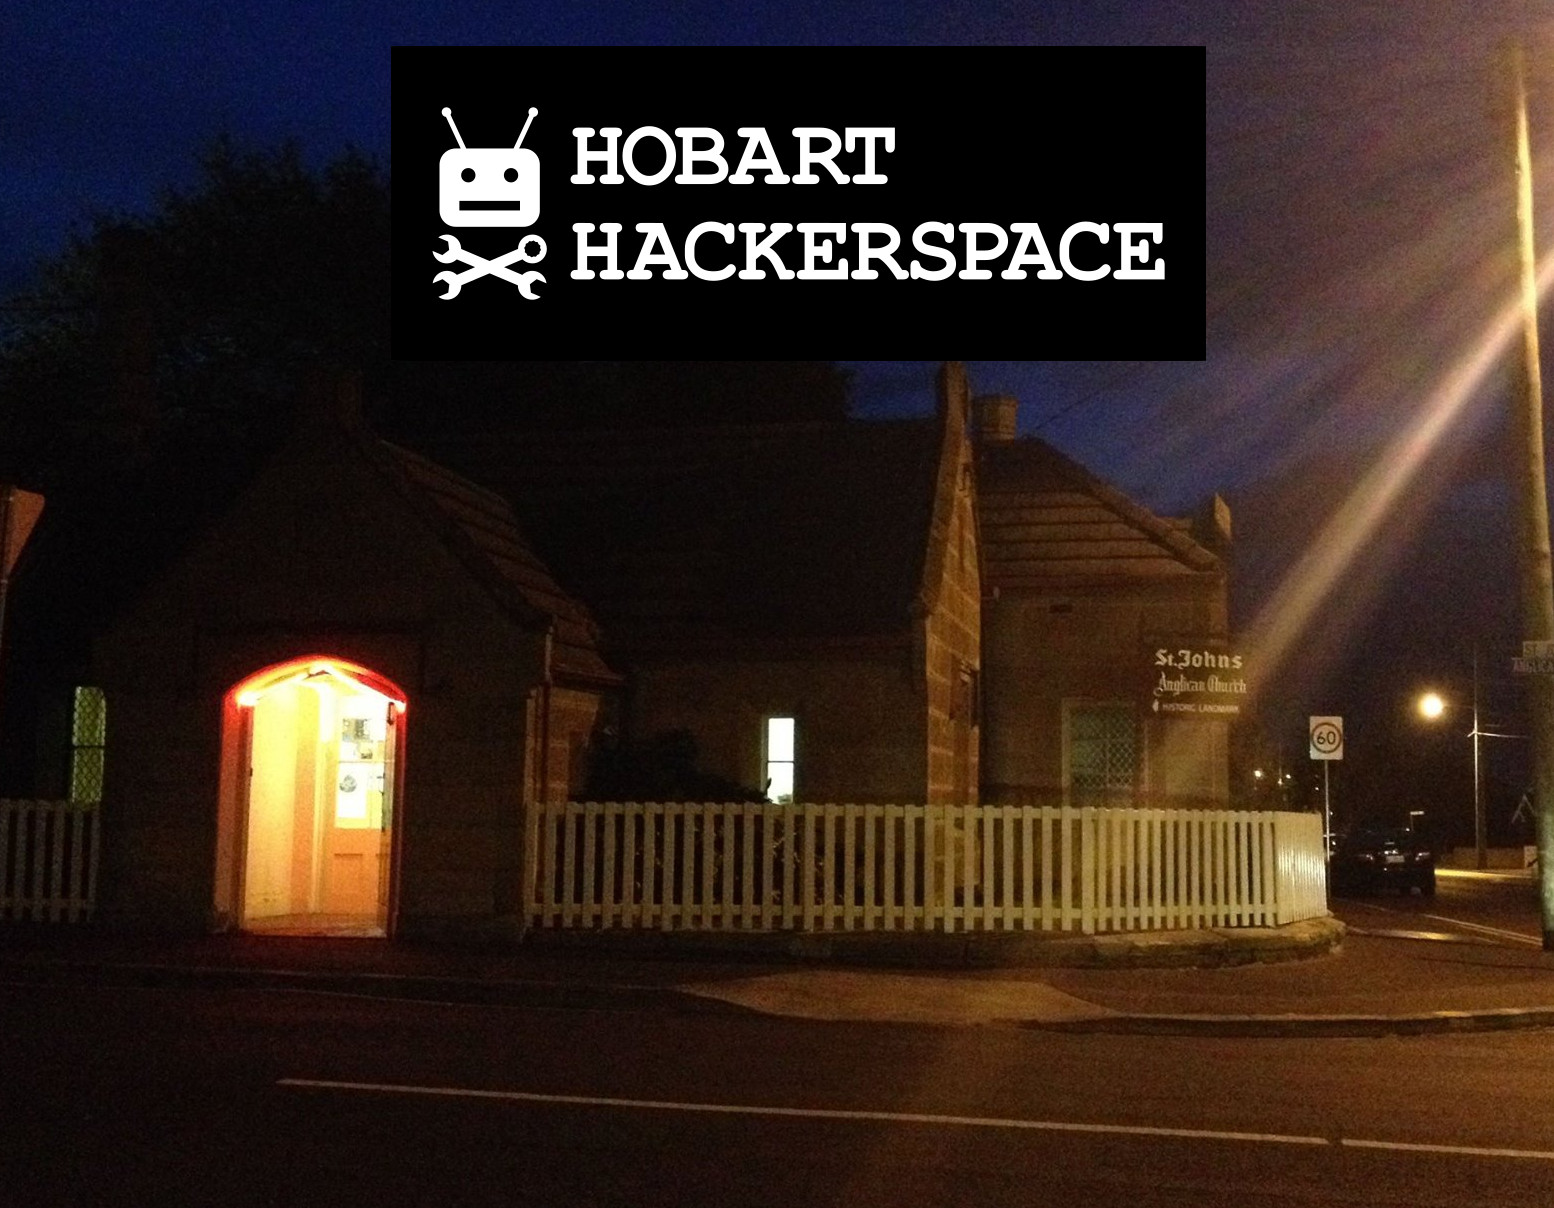
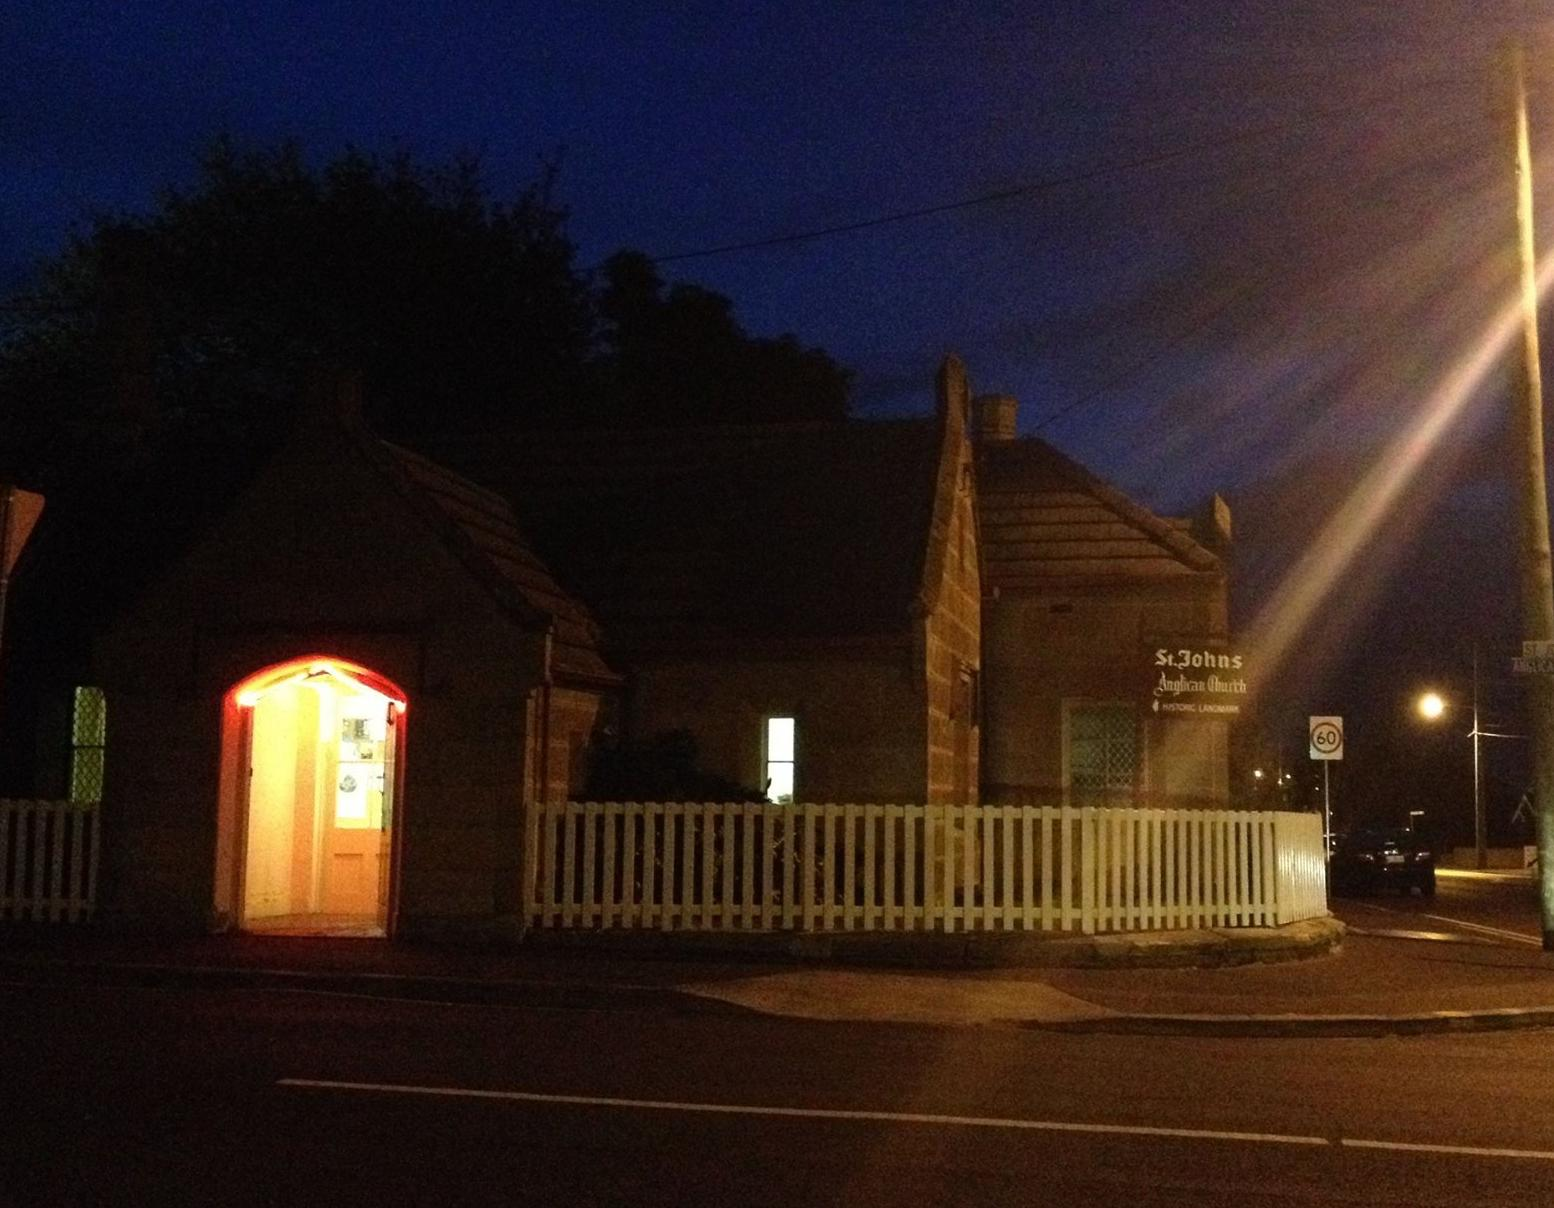
Simple home screen.

Changed region(s): [[0.2471, 0.0306, 0.8031, 0.3063]]

diff --git a/src/pages/home/home.scss b/src/pages/home/home.scss
@@ -1,6 +1,60 @@
 page-home {
 	$break-small: 320px;
 	$break-large: 1554px; // image width
+
+	#main {
+		background: url('../assets/hhs_app_image.jpg');
+		background-position: center center;
+		background-size: cover;
+		background-repeat: repeat, no-repeat;
+		
+		//background-attachment: fixed;
+		min-width: 100%;
+		min-height: 100%;
+	}
+
+	#logo-container{
+		//background: url('../assets/hhs_logo_inverted.png');
+		//background-size: 100% 100%;
+		//width: 200px;
+		//height: 68px;
+		
+		min-width: 100%;
+		min-height: 100%;
+
+		button, #logo-img,
+		#simple-about,.home-text{
+			display: block;
+			margin-left: auto;
+			margin-right: auto;
+		}
+
+		.home-text{
+			color: #fff;
+			margin-top: 7rem;
+			font-size: 16pt;
+			width: 80%;
+			text-align: center;
+			//background: rgba(255, 255, 255, 0.3);
+		}
+
+		#logo-img{
+			top: 50px;
+			max-height: 60%;
+			max-width: 	60%;
+			position: relative;
+			// margin: 0 auto;
+			width: 80%;
+		}
+
+		button {
+			margin-top: 15rem;
+		}
+	}
+
+	
+	
+
  #fullpage{
  	text-align: center;
  	
@@ -32,6 +86,6 @@ page-home {
  	// }
   }
   .home-event{
-  	border: 1px solid #000;
+  	//border: 1px solid #000;
   }
 }

diff --git a/src/pages/home/home.html b/src/pages/home/home.html
@@ -9,20 +9,15 @@
 -->
 <!-- TODO: separate portrait image? -->
 <ion-content>
-  <div id='fullpage'>
-    <div class="section" id="mainbackground-section">   
-      <img src="../assets/hhs_app_image.jpg" id="mainbackground" />
+  <div id="main">
+    <div id="logo-container">
+      <img src="../assets/hhs_logo_inverted.png" id="logo-img"/>
+      <p class="home-text" id="slogan">Make, learn, inspire.</p>
+      <button ion-button color="secondary">Join Us!</button>
+      <div class="home-text" id="simple-about">
+        2 St Johns Avenue, New Town, TAS 7008<br/>
+        Open nights every Thursday, 7PM
+      </div>
     </div>
-    <div class="section">
-      <h4>What's Happening at Hobart Hackerspace</h4>
-        <ion-card class="home-event">
-        <img src="../assets/hhs_open_night.jpg"/>
-        <div class="card-title">Open Night</div>
-        <div class="card-subtitle">Thurs, 23 Feb 2016</div>
-      </ion-card>
-    </div>
-    <p>Hobart Hackerspace is located at 2 St John's Avenue, New Town</p>
-    <button ion-button color="secondary">Join Us!</button>    
-    <p>* Laser cutter is currently being repaired</p>
   </div>
 </ion-content>

diff --git a/src/pages/home/home.ts b/src/pages/home/home.ts
@@ -2,9 +2,6 @@ import { Component } from '@angular/core';
 
 import { NavController } from 'ionic-angular';
 
-import 'fullpage.js';
-import * as $ from 'jquery';
-
 @Component({
   selector: 'page-home',
   templateUrl: 'home.html'
@@ -17,7 +14,6 @@ export class HomePage {
   }
 
   ionViewDidLoad() {
-  	$('#fullpage').fullpage();
   }
 
 
